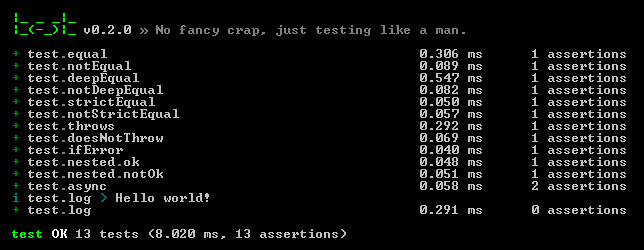
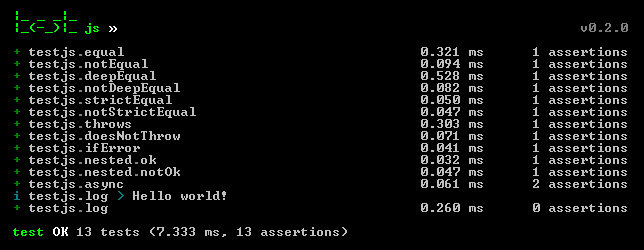
Cleanup

diff --git a/test.js b/test.js
@@ -128,7 +128,7 @@ module.exports = (function() {
      * @expose
      */
     Suite.banner = function() {
-        ascli.banner("test".green.bold, "v"+pkg['version']+(" » "+pkg['description']).grey.bold);
+        ascli.banner("test".green.bold, "js".green.bold+" »".white.bold+"                                                          "+("v"+pkg['version']).grey.bold);
     };
 
     /**
@@ -145,7 +145,7 @@ module.exports = (function() {
                 name = null;
             }
         }
-        name = typeof name != 'undefined' ? (""+name).replace(/^dojo\-/, '') : "main";
+        name = typeof name != 'undefined' ? ""+name : "main";
         var suite = new Suite(tests, name);
         if (!silent) Suite.banner();
         // TODO: Not super important but Cygwin fails to report anything below but the final message?
